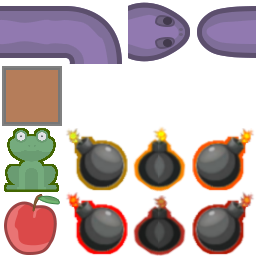
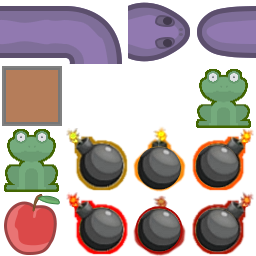
cleanup

diff --git a/src/samples/snake/MainScene.cs b/src/samples/snake/MainScene.cs
@@ -14,7 +14,6 @@ namespace Samples.Snake;
 
 internal class MainScene : Scene
 {
-
     private readonly ITextRenderer textRenderer;
     private readonly GameModel gameModel = new();
     private readonly Rectangle[] spriteFrames = new Rectangle[4];
@@ -40,7 +39,7 @@ internal class MainScene : Scene
 
         base.Load();
         camera = new Camera2D(new Vector3(0, 0, 0), SceneManager.ClientSize.X, SceneManager.ClientSize.Y);
-        AddNode(new Ground(0, Margin, SceneManager.ClientSize.X, SceneManager.ClientSize.Y, Color4.DarkGreen));
+        AddNode(new Ground(0, Margin, SceneManager.ClientSize.X, SceneManager.ClientSize.Y, Color4.DarkOliveGreen));
         AddNode(snakeSprite);
         gameModel.NextLevel();
         CreateObjects();
@@ -104,13 +103,12 @@ internal class MainScene : Scene
 
     private void CreateObjects()
     {
-        //RemoveAllNodes();
-        foreach(var kvp in gridSprites)
+        foreach (var kvp in gridSprites)
         {
             RemoveNode(kvp.Value);
         }
         gridSprites.Clear();
-       
+
         for (var j = 0; j < GameModel.GridTilesY; j++)
         {
             for (var i = 0; i < GameModel.GridTilesX; i++)
@@ -151,12 +149,16 @@ internal class MainScene : Scene
                         break;
 
                     case TileType.FoodFrog:
-                        var sprFrog = new Sprite("Resources/atlas.png")
+                        var sprFrog = new AnimatedSprite("Resources/atlas.png")
                         {
-                            SourceRectangle = new Rectangle(0, 128, TileSourceSize, TileSourceSize),
-                            Size = new(TileSize, TileSize),
+                            Size = new Vector2i(TileSize, TileSize),
                         };
                         sprFrog.SetPosition(new(x, y));
+                        sprFrog.AddAnimation("idle", new Rectangle[] {
+                            new (192, 64, TileSourceSize, TileSourceSize),
+                            new (0, 128, TileSourceSize, TileSourceSize),
+                        });
+                        sprFrog.Play("idle", 1);
                         AddNode(sprFrog);
                         gridSprites[new(i, j)] = sprFrog;
                         break;
@@ -174,12 +176,12 @@ internal class MainScene : Scene
                 };
             }
         }
-        
+
     }
 
     private void HandleSnakeDestroyed()
     {
-        requestedDirection = Direction.None;        
+        requestedDirection = Direction.None;
     }
 
     private DateTime nextMove = DateTime.Now;

diff --git a/src/samples/snake/Logic/GameModel.cs b/src/samples/snake/Logic/GameModel.cs
@@ -24,10 +24,7 @@ public class GameModel
 
     public TileType[,] Grid { get; private set; }
 
-    public void TogglePause()
-    {
-        State = State == GameState.Started ? GameState.Paused : GameState.Started;
-    }
+    public void TogglePause() => State = State == GameState.Started ? GameState.Paused : GameState.Started;
 
     public void NextLevel()
     {
@@ -232,21 +229,9 @@ public class GameModel
 
     private static void SwapTileValues(SnakeTile a, SnakeTile b)
     {
-        var x = a.X;
-        var y = a.Y;
-        var d = a.Direction;
-
-        a.X = b.X;
-        a.Y = b.Y;
-        a.Direction = b.Direction;
-
-        b.X = x;
-        b.Y = y;
-        b.Direction = d;
-
-        //(a.X, b.X) = (b.X, a.X);
-        //(a.Y, b.Y) = (b.Y, a.Y);
-        //(a.Direction, b.Direction) = (b.Direction, a.Direction);
+        (a.X, b.X) = (b.X, a.X);
+        (a.Y, b.Y) = (b.Y, a.Y);
+        (a.Direction, b.Direction) = (b.Direction, a.Direction);
     }
 
     private static Direction CalcCornerDirection(Direction prevDir, Direction bodyDir)

diff --git a/src/samples/snake/Ground.cs b/src/samples/snake/Ground.cs
@@ -2,15 +2,15 @@
 using OpenRender.Core;
 using OpenTK.Mathematics;
 
-namespace Samples.Snake.Logic;
+namespace Samples.Snake;
 
 internal class Ground : Sprite
 {
-    public Ground(int x, int y, int width, int height, Color4 color): base("Resources/atlas.png")
+    public Ground(int x, int y, int width, int height, Color4 color) : base("Resources/atlas.png")
     {
         SetPosition(new(x, y));
         SourceRectangle = new Rectangle(64, 64, 64, 64);   //  position of white quad
         Size = new Vector2i(width, height);
         Tint = color;
-    }        
+    }
 }
